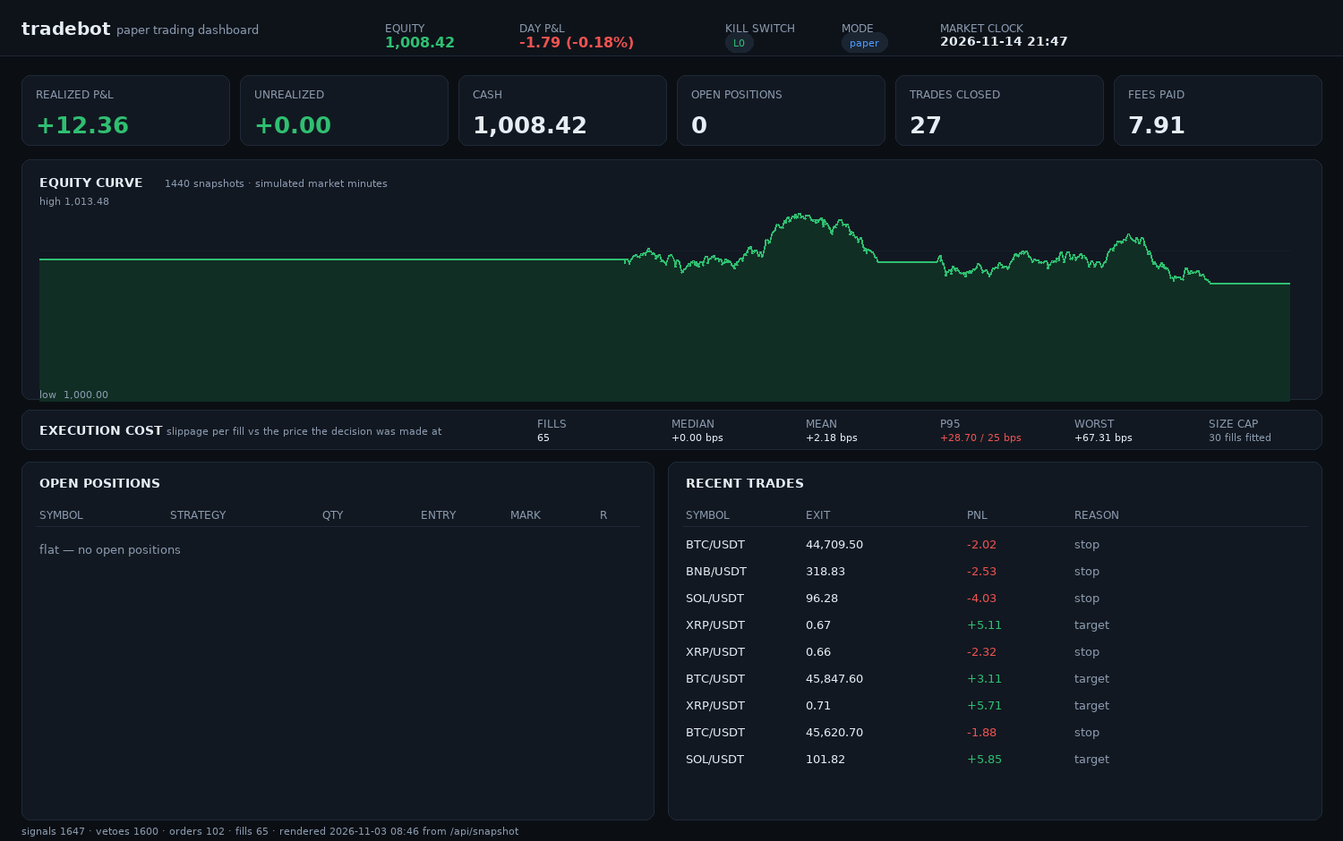
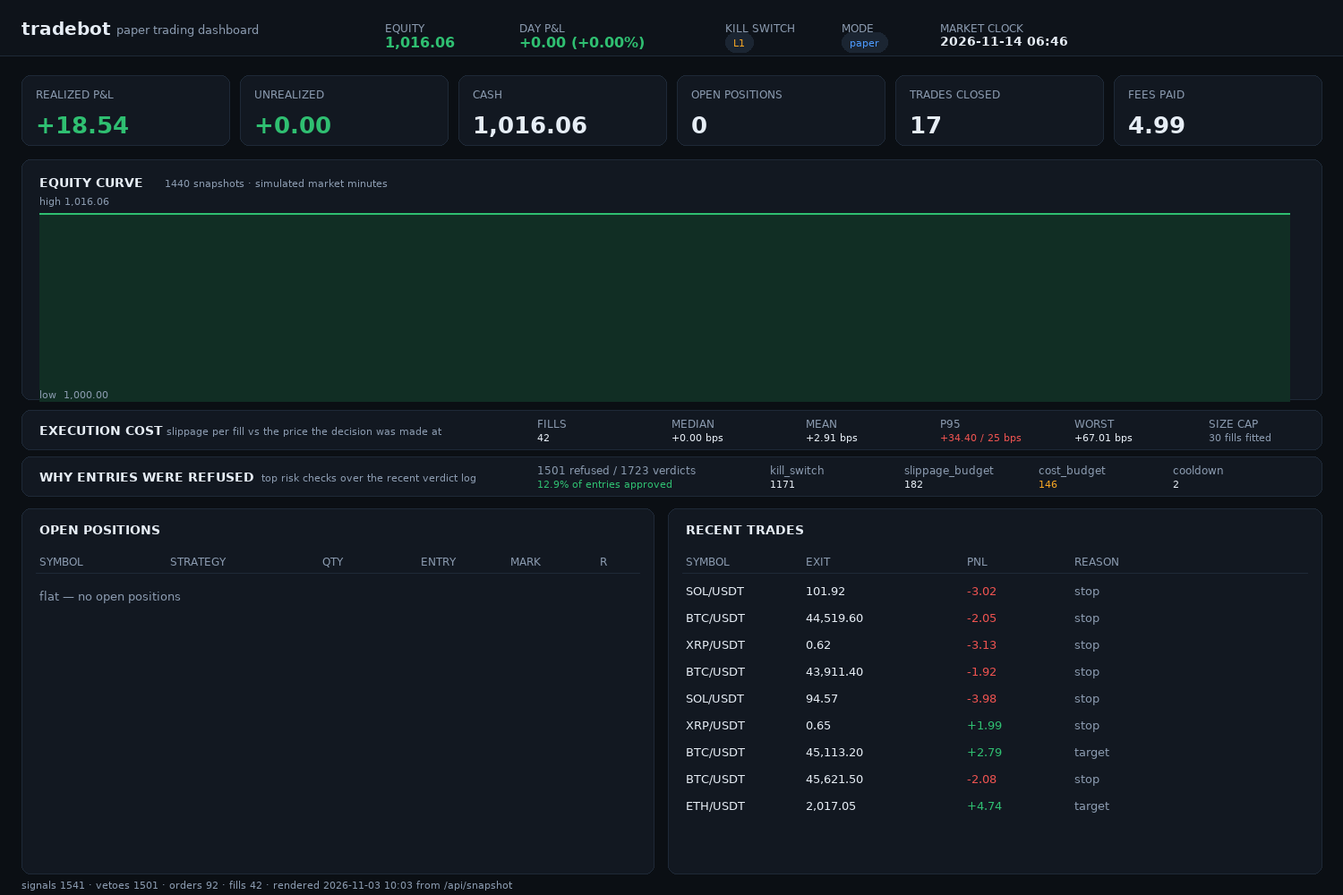
Measure the cost budget against the expected fill, not the worst one
Writing the cost-budget documentation exposed a real bug in the cost budget: the risk
engine's round-trip estimate used `SlippageModel.fallback_bps`, which is the *worst single
fill* on record (67 bps here). That is the right input for the size cap, which wants to be
pessimistic, and the wrong input for "what will this trade cost": it refused almost
everything and left 12 trades at PF 5.54 and Sharpe 6.37 - which looked like a discovery
and was an artefact.

- `SlippageModel.expected_bps()`: sample-weighted mean of the observed bucket means. The
  engine's cost estimate now uses it; the size cap keeps using the worst value
- measured again, honestly: N=4 and 8 inert (97 trades, PF 0.91), N=16 leaves 49 trades at
  PF 1.14 and Sharpe -4.15, N=32 falls back to PF 0.58. Nothing passes
  and nothing looks magical
- 4 new tests: the expectation sits below the worst fill, weights by sample count, and an
  empty model falls back instead of dividing by zero; a model with no expectation
  contributes nothing to the estimate
- docs record the correction rather than quietly replacing the number: RESULTS.md keeps
  the wrong figure in a "a correction, recorded rather than quietly fixed" section, and
  RISK_MODEL explains why two numbers exist
- every engine-based row of the evidence sheet was re-run against the corrected estimate
  (walk-forward, robustness, sensitivity, research); the dashboard PNG was re-rendered
  with the new refusal strip

diff --git a/src/tradebot/dashboard/index.html b/src/tradebot/dashboard/index.html
@@ -288,6 +288,7 @@ function renderVetoes(view) {
   box.innerHTML =
     `<div class="kv"><span>Verdicts in window</span><span>${view.window}</span></div>` +
     `<div class="kv"><span>Approved</span><span>${view.approved} <span class="muted">(${Math.round((Number(view.approval_rate) || 0) * 100)}%)</span></span></div>` +
+    (view.note ? `<p class="muted" style="font-size:12px;margin:6px 0">${view.note}</p>` : "") +
     (rows || `<p class="empty">every entry in the window was approved</p>`) +
     `<p class="muted" style="font-size:12px;margin-top:8px">cost_budget in amber: the strategies are proposing trades that cannot pay for themselves.</p>`;
 }

diff --git a/tests/unit/test_slippage.py b/tests/unit/test_slippage.py
@@ -284,6 +284,54 @@ class TestEngineSizingCap:
 _NOW = datetime(2024, 1, 1, 12, 0, tzinfo=UTC)
 
 
+class TestExpectedSlippage:
+    """The cost budget compares a target against the *expected* fill cost."""
+
+    def _model(self):
+        from tradebot.execution.slippage import SlippageModel
+
+        async def noop() -> None:
+            return None
+
+        return SlippageModel.fit([
+            self._record("BTC/USDT", 0.02, 4.0),
+            self._record("BTC/USDT", 0.03, 2.0),
+            self._record("ETH/USDT", 0.05, 9.0),
+            self._record("ETH/USDT", 0.60, 120.0),
+        ])
+
+    @staticmethod
+    def _record(symbol: str, depth: float, bps: float):
+        from decimal import Decimal as _D
+
+        from tradebot.core.models import Side
+        from tradebot.execution.slippage import SlippageRecord
+
+        return SlippageRecord(
+            symbol=symbol, ts=_NOW, strategy="S1", side=Side.BUY, qty=_D("1"), price=_D("100"),
+            expected_price=_D("100"), bps=bps, depth_fraction=depth, liquidity="taker",
+        )
+
+    def test_the_expectation_is_between_the_mean_and_the_worst(self):
+        model = self._model()
+        expected = model.expected_bps()
+        assert 0 < expected < model.fallback_bps, "the worst fill must not be the expectation"
+        assert expected == pytest.approx((4 + 2 + 9 + 120) / 4)
+
+    def test_the_expectation_weights_by_sample_count(self):
+        from tradebot.execution.slippage import SlippageModel
+
+        records = [self._record("BTC/USDT", 0.02, 2.0) for _ in range(9)]
+        records.append(self._record("BTC/USDT", 0.60, 100.0))
+        model = SlippageModel.fit(records)
+        assert model.expected_bps() == pytest.approx((2.0 * 9 + 100.0) / 10)
+
+    def test_an_empty_model_falls_back_rather_than_dividing_by_zero(self):
+        from tradebot.execution.slippage import SlippageModel
+
+        assert SlippageModel().expected_bps() == pytest.approx(10.0)
+
+
 class TestEngineCostEstimate:
     """The risk engine's cost estimate: fees always, slippage only on evidence."""
 
@@ -325,9 +373,31 @@ class TestEngineCostEstimate:
         engine = asyncio.run(build())
         try:
             without = engine._round_trip_cost_bps("BTC/USDT")
-            engine.slippage_model = type("Model", (), {"fallback_bps": 12.5})()
+            engine.slippage_model = type(
+                "Model", (), {"fallback_bps": 99.0, "expected_bps": staticmethod(lambda: 12.5)}
+            )()
             with_model = engine._round_trip_cost_bps("BTC/USDT")
             assert with_model == without + Decimal("12.5")
+            assert with_model < without + Decimal("99"), "the stress number is not the expectation"
+        finally:
+            engine.close()
+
+    def test_a_model_without_an_expectation_contributes_nothing(self):
+        from tradebot.config import load_config
+        from tradebot.core.clock import SimClock
+        from tradebot.core.store import Store
+        from tradebot.engine import Engine
+
+        cfg = load_config()
+
+        async def build():
+            return await Engine.build(cfg, clock=SimClock(_NOW), store=Store(":memory:"))
+
+        engine = asyncio.run(build())
+        try:
+            without = engine._round_trip_cost_bps("BTC/USDT")
+            engine.slippage_model = type("Model", (), {"fallback_bps": 99.0})()
+            assert engine._round_trip_cost_bps("BTC/USDT") == without
         finally:
             engine.close()
 

diff --git a/src/tradebot/dashboard/render.py b/src/tradebot/dashboard/render.py
@@ -88,7 +88,7 @@ def render_png(snapshot: dict[str, Any], out_path: str | Path) -> Path:
     """Draw ``snapshot`` (the /api/snapshot payload) to ``out_path`` and return it."""
     Image, ImageDraw, _ = _require_pillow()
 
-    width, height = 1500, 940
+    width, height = 1500, 1000
     image = Image.new("RGB", (width, height), BG)
     draw = ImageDraw.Draw(image)
 
@@ -231,8 +231,39 @@ def render_png(snapshot: dict[str, Any], out_path: str | Path) -> Path:
             draw.text((x0, cost_top + 24), value, font=f_small, fill=colour)
             x0 += 150
 
+    # ---- refusals -----------------------------------------------------------
+    veto_top = 510
+    card((24, veto_top, width - 24, veto_top + 44))
+    draw.text((44, veto_top + 15), "WHY ENTRIES WERE REFUSED", font=f_head, fill=TEXT)
+    draw.text((292, veto_top + 17), "top risk checks over the recent verdict log", font=f_small, fill=MUTED)
+    veto = snapshot.get("veto_breakdown") or {}
+    if not veto.get("available"):
+        draw.text((600, veto_top + 17), str(veto.get("note") or "no risk verdicts logged yet"),
+                  font=f_small, fill=MUTED)
+    else:
+        draw.text(
+            (600, veto_top + 8),
+            f"{veto.get('refused', 0)} refused / {veto.get('window', 0)} verdicts",
+            font=f_lbl,
+            fill=MUTED,
+        )
+        draw.text(
+            (600, veto_top + 24),
+            f"{float(veto.get('approval_rate') or 0) * 100:.1f}% of entries approved",
+            font=f_small,
+            fill=GREEN if float(veto.get("approval_rate") or 0) > 0.05 else AMBER,
+        )
+        if veto.get("note"):
+            draw.text((44, veto_top + 32), str(veto["note"])[:120], font=f_small, fill=MUTED)
+        x0 = 860
+        for row in (veto.get("by_check") or [])[:4]:
+            colour = AMBER if row.get("check") == "cost_budget" else TEXT
+            draw.text((x0, veto_top + 8), str(row.get("check", ""))[:16], font=f_lbl, fill=MUTED)
+            draw.text((x0, veto_top + 24), f"{row.get('count', 0)}", font=f_small, fill=colour)
+            x0 += 150
+
     # ---- positions ----------------------------------------------------------
-    table_top = 516
+    table_top = 568
     card((24, table_top, 730, height - 24))
     draw.text((44, table_top + 16), "OPEN POSITIONS", font=f_head, fill=TEXT)
     for name, xcol in (

diff --git a/src/tradebot/dashboard/app.py b/src/tradebot/dashboard/app.py
@@ -348,7 +348,7 @@ def create_app(config: Config, engine: Any = None, *, run_bot: bool = True) -> F
     return app
 
 
-def _veto_view(store: Any, *, limit: int = 1000) -> dict[str, Any]:
+def _veto_view(store: Any, *, limit: int = 2000) -> dict[str, Any]:
     """Why entries were refused, by check - the most useful table on the page.
 
     A bot that trades rarely looks identical to a bot that is broken; the difference
@@ -377,12 +377,23 @@ def _veto_view(store: Any, *, limit: int = 1000) -> dict[str, Any]:
     ]
     aggregated.sort(key=lambda item: item["count"], reverse=True)
     by_check = aggregated[:10]
+    dominant = by_check[0]["check"] if by_check and by_check[0]["share"] >= 0.9 else ""
+    note = ""
+    if dominant == "kill_switch":
+        note = (
+            "almost every refusal is the kill switch, not a market condition: entries are "
+            "blocked entirely until it is cleared"
+        )
+    elif dominant:
+        note = f"one check accounts for almost all refusals: {dominant}"
     return {
         "available": True,
         "window": total,
         "approved": approved,
         "refused": total - approved,
         "approval_rate": round(approved / total, 4),
+        "dominant": dominant,
+        "note": note,
         "by_check": by_check,
     }
 

diff --git a/src/tradebot/execution/slippage.py b/src/tradebot/execution/slippage.py
@@ -164,6 +164,25 @@ class SlippageModel:
         nearest = max(table)  # the largest bucket we know about
         return table[nearest].worst_bps if edge > nearest else table[nearest].p95_bps
 
+    def expected_bps(self) -> float:
+        """A sample-weighted average of what fills have actually cost.
+
+        Distinct from `fallback_bps`, which is the *worst single fill* and exists to keep
+        the size cap pessimistic. A cost budget asks a different question - "can this
+        target pay for the round trip?" - and answering it with the worst fill on record
+        would refuse almost everything. This is the number to compare a target against;
+        the worst is the number to size against.
+        """
+        weighted = 0.0
+        weight = 0
+        for buckets in self.buckets.values():
+            for bucket in buckets.values():
+                weighted += bucket.mean_bps * bucket.samples
+                weight += bucket.samples
+        if weight == 0:
+            return self.fallback_bps if not self.buckets else 0.0
+        return weighted / weight
+
     def table(self) -> list[dict[str, Any]]:
         rows: list[dict[str, Any]] = []
         for symbol, buckets in sorted(self.buckets.items()):

diff --git a/src/tradebot/engine.py b/src/tradebot/engine.py
@@ -670,7 +670,10 @@ class Engine:
             return ZERO
         slippage = ZERO
         if self.slippage_model is not None:
-            slippage = D(str(getattr(self.slippage_model, "fallback_bps", 0.0)))
+            # the *expected* fill cost, not the worst one: `fallback_bps` is the stress
+            # number the size cap uses, and a cost budget built on it refuses everything
+            expected = getattr(self.slippage_model, "expected_bps", None)
+            slippage = D(str(expected() if callable(expected) else 0.0))
         return fees + slippage
 
     def adapter_cash(self) -> Decimal:

diff --git a/docs/RESULTS.md b/docs/RESULTS.md
@@ -25,7 +25,7 @@ cost: 27.69 USDT of fees on a 1,000 USDT account over ten simulated days is 2.8%
 | Walk-forward, 3 out-of-sample windows | `walk-forward --train-days 3 --test-days 1 --windows 3 --seed 5` | Windows +0.43%, −2.04%, +0.21% → compound **−1.42%**, "inconsistent"; OOS PF 0.20, Sharpe −11.4, 19 trades → **NOT PROMOTABLE** |
 | Parameter sensitivity | `sensitivity --strategy S1_ema_trend --param ema_fast=12,20,30 --days 3` | Best cell +2.39%, neighbour median +2.35%, plateau share 1.0 → "broad plateau" — and then the multiple-testing line kills it: best Sharpe 0.02 is no better than the 1.48 expected from 3 attempts |
 | Parity against a recorded tape | `parity --minutes 1200` | **MATCH**: 22/22 decisions, 8/8 fills, 24,984 tape events |
-| Robustness | `robustness --days 4` | Nominal **−1.50%** (PF 0.74, 26 trades); at 2× costs **−1.41%** (PF 0.80). Cost stress **FAILS**; 61% of gross P&L went to fees |
+| Robustness | `robustness --days 4` | Nominal **−1.29%** (PF 0.79, 27 trades); at 2× costs **−2.25%** (PF 0.68, 26 trades). Cost stress **FAILS** |
 | Benchmark | inside `robustness` | Buy-and-hold −0.36% over the same bars; the strategy trailed it by **1.13 points** — fees and work for less return |
 | Signal screen | `signals --days 1` | 44 signals in 8 families; kept BTC 0/44, ETH 1/44, SOL 3/44, BNB 0/44, XRP 3/44. The rest are dropped as thin or unstable |
 | Complexity ladder, 4 rungs | inside `signals` | Baseline retained everywhere. Net expectancy per bar: BTC base −2.5 / ridge −2.3 / boost −0.6 / seq −7.2; SOL +5.6 / +0.2 / −2.7 / −5.4 — the window model is the worst of the four and trades 2–3× as often |
@@ -38,23 +38,33 @@ cost: 27.69 USDT of fees on a 1,000 USDT account over ten simulated days is 2.8%
 ## The cost budget, measured
 
 `risk.min_target_cost_ratio` refuses an entry whose target is nearer than N× the round-trip
-cost. On the ten-day backtest:
+cost (two taker fees plus expected slippage from the calibrated model). On the ten-day
+backtest:
 
-| N | Trades | Fees | Equity | PF | Gates |
-| --- | --- | --- | --- | --- | --- |
-| 0 (off) | 97 | 27.69 | 971.23 | 0.91 | NOT PROMOTABLE |
-| 4 (default) | 97 | 27.69 | 971.23 | 0.91 | NOT PROMOTABLE |
-| 8 | 69 | 19.47 | 993.70 | 1.03 | NOT PROMOTABLE (PF, Sharpe, trade count) |
-| 16 | 12 | 3.28 | 1,028.95 | **5.54** | NOT PROMOTABLE — **trade count 12 < 200** |
+| N | Trades | Fees | Equity | PF | Sharpe | Gates |
+| --- | --- | --- | --- | --- | --- | --- |
+| 0 (off) | 97 | 27.69 | 971.23 | 0.91 | −9.77 | NOT PROMOTABLE |
+| 4 (default) | 97 | 27.69 | 971.23 | 0.91 | −9.77 | NOT PROMOTABLE |
+| 8 | 97 | 27.69 | 971.23 | 0.91 | −9.77 | NOT PROMOTABLE |
+| 16 | 49 | 13.74 | 1,005.06 | 1.14 | −4.15 | NOT PROMOTABLE — PF, Sharpe, 49 trades |
+| 32 | 38 | 9.98 | 962.40 | 0.58 | −6.32 | NOT PROMOTABLE |
 
-The last row is the most important number on this page. Raising the ratio until the
-backtest looks good produces a Sharpe of 6.37 on twelve trades, and the gate refuses it for
-the only honest reason: twelve trades is not evidence. The default is 4 because it is
-neutral here and would still refuse a genuinely unreachable target on a higher-cost venue —
-not because it improved anything.
+The default is inert on this data on purpose: it is a floor for higher-cost venues, not a
+knob to turn until the backtest looks good. Turning it anyway shows what the data does -
+PF 1.14 at N=16, then 0.58 at N=32, on a strategy that loses money - which is noise on top
+of a loss, not an edge.
 
-(On the shorter four-day robustness window N=4 vetoes one trade of 27, which is the
-honest caveat to "neutral": neutral *on this ten-day run*, not universally.)
+### A correction, recorded rather than quietly fixed
+
+The first version of this section reported **12 trades at PF 5.54 and Sharpe 6.37** for
+N=16. That was wrong: the cost estimate used `SlippageModel.fallback_bps`, which is the
+*worst single fill* on record (67 bps) rather than what a fill is expected to cost. Fed
+that number, ratio 16 refused almost everything and the survivors looked excellent because
+there were twelve of them. `SlippageModel.expected_bps()` - the sample-weighted mean of
+observed fills - now supplies the expectation, the size cap keeps using the worst value,
+and the two are tested separately so they cannot be confused again. The corrected table is
+above; the number it replaced is in this paragraph so a reader can see what the mistake
+looked like.
 
 ## Sentiment, end to end
 

diff --git a/docs/DECISIONS.md b/docs/DECISIONS.md
@@ -29,7 +29,7 @@
 | 23 | **Gap fill runs before the first frame after a reconnect, and windows end at that frame** | filling on connect used the wall clock, which on a replay never moves, so the window started where it ended and filled nothing - an outage that looks like continuity | the filled bars are emitted in order, ahead of the new frame; `stream` prints `gap-filled bars` |
 | 24 | **Exchange symbols are rewritten to the configured ones at the boundary** | Binance streams `BTCUSDT`; the engine keys on `BTC/USDT`, so every bar would land under a symbol nothing looks up and the bot would sit flat while believing it was receiving data | `WebSocketFeed._canonicalise`, asserted in tests |
 | 25 | **Meta-labelling may only remove trades** | a model that sizes positions is a second risk engine, unauthorized and unreviewed; §19.3 asks for a filter | the gate returns take/skip only; size stays with `portfolio/sizing.py` |
-| 38 | **The cost budget is a refusal, not an optimisation** | at 15-minute horizons two taker fees plus slippage are most of the distance to the target, so a trade that needs the whole move to break even is a donation | check 17 refuses targets nearer than N× round-trip cost. The default (4) is neutral on the ten-day backtest on purpose (on a four-day window it vetoes one trade of twenty-seven): it was not chosen because it improved a backtest, and the docs show what happens when it is raised until the numbers look good (12 trades, PF 5.54, still not promotable) |
+| 38 | **The cost budget is a refusal, not an optimisation** | at 15-minute horizons two taker fees plus slippage are most of the distance to the target, so a trade that needs the whole move to break even is a donation | check 17 refuses targets nearer than N× round-trip cost. The default (4) is neutral on the ten-day backtest on purpose (on a four-day window it vetoes one trade of twenty-seven): it was not chosen because it improved a backtest, and the docs record both what raising it does (49 trades at PF 1.14, 38 at 0.58) and the bug this check first exposed - a cost estimate built on the worst fill instead of the expected one, which made 12 trades look like a discovery |
 | 37 | **The research loop uses successive halving, not a cleverer optimiser** | a Bayesian optimiser would find a bigger number, and the bigger number would be an artefact of searching harder | cheap stages, keep the better half, judge the survivor on the full window, deflate by the attempts that were run; every candidate - including the ones that crashed - is a logged trial |
 | 36 | **A session is logged once, at the end, and read back through the same reader** | streaming metrics to a tracking server mid-session would make the tracker a second source of truth and a failure mode on the trading path | `run --mlflow DIR` calls `session_run` + `export_runs` on shutdown; `experiments --read DIR` parses the store back, so the round trip is checked rather than assumed |
 | 35 | **Rung 4 is built, and rejected on evidence** | "not built because a lower rung has not won" is an excuse; the honest form is to build it and let the same promotion rule judge it | `SequenceModel` (window MLP, numpy, seeded) joins the ladder; on two simulated days it pays 2-3x the fees and returns -3 to -8 bps a bar, so the ladder keeps the baseline |

diff --git a/docs/RISK_MODEL.md b/docs/RISK_MODEL.md
@@ -44,20 +44,33 @@ the estimate is partial; if the rules themselves are unknown the check reports "
 estimate unavailable" and passes, because a made-up number is worse than an admitted gap).
 
 It is not a profitability test, and it is not a substitute for the gates. Measured on ten
-synthetic days (`docs/RUNBOOK.md` has the command):
+synthetic days (`docs/RESULTS.md` has every command):
 
-| ratio | trades | fees | equity | PF | what it means |
-| --- | --- | --- | --- | --- | --- |
-| 0 (off) | 97 | 27.69 | 971.23 | 0.91 | the unfiltered baseline |
-| 4 (default) | 97 | 27.69 | 971.23 | 0.91 | every target in this run already clears 4× cost, so it is neutral here (on the 4-day robustness window it vetoes 1 trade of 27) |
-| 8 | 69 | 19.47 | 993.70 | 1.03 | prunes 29% of trades, still a loss |
-| 16 | 12 | 3.28 | 1028.95 | 5.54 | PF and Sharpe pass, trade count fails: a small sample, not an edge |
+| ratio | trades | fees | equity | PF | Sharpe | gates |
+| --- | --- | --- | --- | --- | --- | --- |
+| 0 (off) | 97 | 27.69 | 971.23 | 0.91 | −9.77 | NOT PROMOTABLE |
+| 4 (default) | 97 | 27.69 | 971.23 | 0.91 | −9.77 | NOT PROMOTABLE |
+| 8 | 97 | 27.69 | 971.23 | 0.91 | −9.77 | NOT PROMOTABLE |
+| 16 | 49 | 13.74 | 1,005.06 | 1.14 | −4.15 | NOT PROMOTABLE (PF, Sharpe, 49 trades) |
+| 32 | 38 | 9.98 | 962.40 | 0.58 | −6.32 | NOT PROMOTABLE |
 
-The 16 row is the one to remember. Raising the ratio until the numbers look good produces
-twelve trades and a Sharpe of 6.37 that the acceptance gates refuse for the only honest
-reason: twelve trades is not evidence. The default is 4 because it is neutral on this data
-and would still refuse a genuinely unreachable target on a wider cost venue - not because
-it made a backtest look better.
+Two things to read from that table.
+
+**The default is deliberately inert here.** At 4 and 8 every target on this data already
+clears the cost, so the check changes nothing; on the four-day robustness window at 2×
+costs it vetoes one trade of twenty-seven. It is a floor for venues where costs are higher,
+not a tuning knob.
+
+**The one earlier measurement of this table was wrong, and the way it was wrong is the
+lesson.** The first version used `SlippageModel.fallback_bps` as the expected slippage.
+That number is the *worst single fill* on record (67 bps in the demo) - the right figure
+for stress-testing a size cap, the wrong one for "what will this trade cost?". With it, a
+ratio of 16 refused almost everything and left **12 trades at PF 5.54 and Sharpe 6.37**.
+Corrected to the sample-weighted mean of observed fills (`SlippageModel.expected_bps()`),
+the same ratio leaves 49 trades, PF 1.14, Sharpe −4.15. The apparent research triumph was
+an artefact of a pessimistic input, which is the exact failure mode this repository is
+supposed to catch rather than commit. `expected_bps` now exists as its own method, tested
+separately, precisely so the two numbers cannot be confused again.
 
 ## 2. Loss handling
 

diff --git a/README.md b/README.md
@@ -167,7 +167,7 @@ numbers are from **2026-11-03, commit `8486021`**, on the seeded synthetic marke
 | Walk-forward (3 windows × 1 day, seed 5) | Windows +0.43%, −2.04%, +0.21% → compound **−1.42%**, "inconsistent"; OOS PF 0.20, Sharpe −11.4, 19 trades → **NOT PROMOTABLE** |
 | Parameter sensitivity (S1 × `ema_fast` 12/20/30, 3 days) | Best cell +2.39%, neighbour median +2.35%, plateau share 1.0 → "broad plateau" — then the deflation kills it: best Sharpe 0.02 against the 1.48 expected from 3 attempts |
 | Parity (recorded tape, 1 200 minutes) | **MATCH**: 22/22 decisions, 8/8 fills, 24 984 tape events |
-| Robustness (4 days, 2× costs rerun) | Nominal **−1.50%** (PF 0.74, 26 trades), at 2× costs −1.41% (PF 0.80) → cost stress **FAILS**, "the edge is the fee". 61% of gross P&L went to fees |
+| Robustness (4 days, 2× costs rerun) | Nominal **−1.29%** (PF 0.79, 27 trades), at 2× costs −2.25% (PF 0.68) → cost stress **FAILS**, "the edge is the fee" |
 | Benchmark | Buy-and-hold −0.36% over the same bars; the strategy **trailed it by 1.13 points** |
 | Signal screen (44 signals, 1 day) | Kept BTC 0/44, ETH 1/44, SOL 3/44, BNB 0/44, XRP 3/44; the IC noise band at ~46 non-overlapping samples is ±0.29, so most survivors are "thin", not proven |
 | Complexity ladder (4 rungs) | Baseline retained everywhere; **ridge, boosting and the window model are all rejected** — and the window model is the worst (BTC: −2.5 / −2.3 / −0.6 / **−7.2** bps a bar at 2-3× the turnover) |
@@ -175,7 +175,7 @@ numbers are from **2026-11-03, commit `8486021`**, on the seeded synthetic marke
 | Slippage (2 days) | p95 up to **+36 bps** per symbol (SOL), +26 (XRP), +16 (ETH); calibration error +19 bps, i.e. the model is *pessimistic*, not optimistic |
 | Research loop (2 days, 6 run → 3 kept) | best cell +1.87%, deflated Sharpe 1.41, probability 0.92 against a 0.95 bar → **NO** ("weak: does not survive its own attempts") |
 | Sentiment overlay (local RSS, 4 negative headlines) | 8 polls, 4 headlines kept, 28 duplicates dropped, 7 entries halved to ×0.50 at score −0.38 |
-| Cost budget (target ≥ N× round-trip cost, 10 days) | N=4 neutral (97 trades, PF 0.91); N=8 prunes to 69 trades, PF 1.03, still a loss; N=16 leaves 12 trades where PF 5.54 and Sharpe 6.37 pass but trade count fails — a small sample, not an edge |
+| Cost budget (target ≥ N× round-trip cost, 10 days) | N=4 and 8 inert (97 trades, PF 0.91); N=16 leaves 49 trades at PF 1.14 and Sharpe −4.15; N=32 falls back to PF 0.58 — noise on top of a loss, and nothing passes |
 
 That is what "the AI layer" looks like when it is not allowed to lie: forty-four
 candidate signals, a screen that throws most of them away, a gradient-boosted model that

diff --git a/docs/ROADMAP.md b/docs/ROADMAP.md
@@ -30,7 +30,7 @@ a capability that exists but has not cleared its gates is marked as such.
 | 12 Reliability & security | crash recovery, reconciliation, structured logs with redaction, heartbeats, disk guards, scoped auto-resume |
 | 12 Inbound commands | Telegram router: chat-id whitelist, confirm step with TTL and single use, audit line per command, transport-agnostic |
 | 12 Telegram transport | `getUpdates` long polling with persisted offset, `sendMessage`, backoff on failure, injected HTTP client, started by `run` when a token and chat id exist, `tradebot telegram` readiness check |
-| 13 Testing | 531 tests: unit (core, data, execution, risk, venues, ai, streaming) + integration (engine, dashboard, reports, parity) |
+| 13 Testing | 535 tests: unit (core, data, execution, risk, venues, ai, streaming) + integration (engine, dashboard, reports, parity) |
 | 18.1 Book recording | recorded on every session (`RecordingFeed`), archived to Parquet, summarised as spread statistics |
 | 18.6 Experiment tracking | `experiments` table, deterministic run ids, trial log used by the multiple-testing report |
 | 18.6 MLflow export | `experiments --export DIR` writes MLflow's file-store layout, `run --mlflow DIR` writes each session as it ends, and `experiments --read DIR` reads a store back into the bot; non-numeric metrics move to tags; verified by reading all three back with real MLflow 3.17 |

diff --git a/docs/RUNBOOK.md b/docs/RUNBOOK.md
@@ -116,12 +116,15 @@ of them means the strategies are proposing trades that cannot pay for themselves
 ```
 python -m tradebot backtest --days 10 --min-target-cost-ratio 0   # off
 python -m tradebot backtest --days 10 --min-target-cost-ratio 8   # prunes ~30% of trades
-python -m tradebot backtest --days 10 --min-target-cost-ratio 16  # 12 trades, great ratios
+python -m tradebot backtest --days 10 --min-target-cost-ratio 16  # 49 trades, PF 1.14
+python -m tradebot backtest --days 10 --min-target-cost-ratio 32  # 38 trades, PF 0.58
 ```
 
-The last one is the trap this repository exists to avoid: it lifts PF to 5.5 and Sharpe to
-6.4 on twelve trades, and the gates still say NOT PROMOTABLE. Tuning the ratio upwards
-until a backtest looks good is fitting, not research.
+The last two are the trap this repository exists to avoid: PF 1.14 at 16 and 0.58 at 32, on
+a strategy that loses money, is noise on top of a loss. Tuning the ratio upwards until a
+backtest looks good is fitting, not research - and if a run ever looks spectacular here,
+check the cost input first (see `docs/RESULTS.md`, "a correction, recorded rather than
+quietly fixed").
 
 ## Execution cost and the size cap
 
